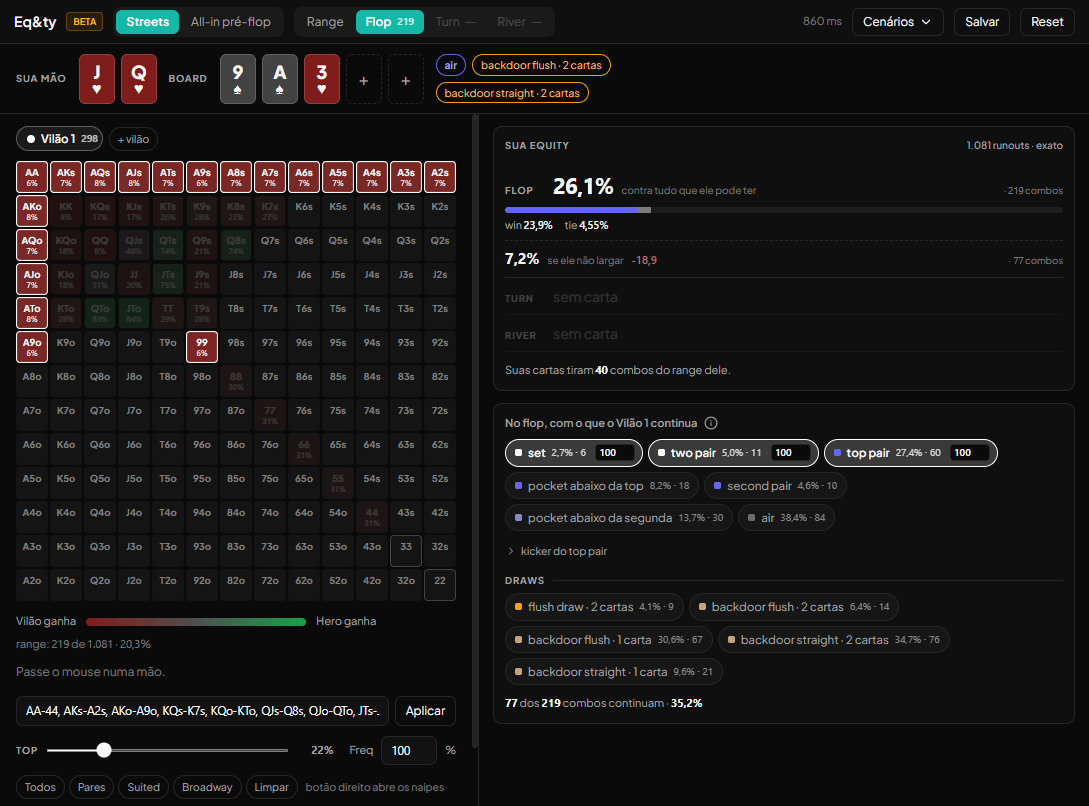
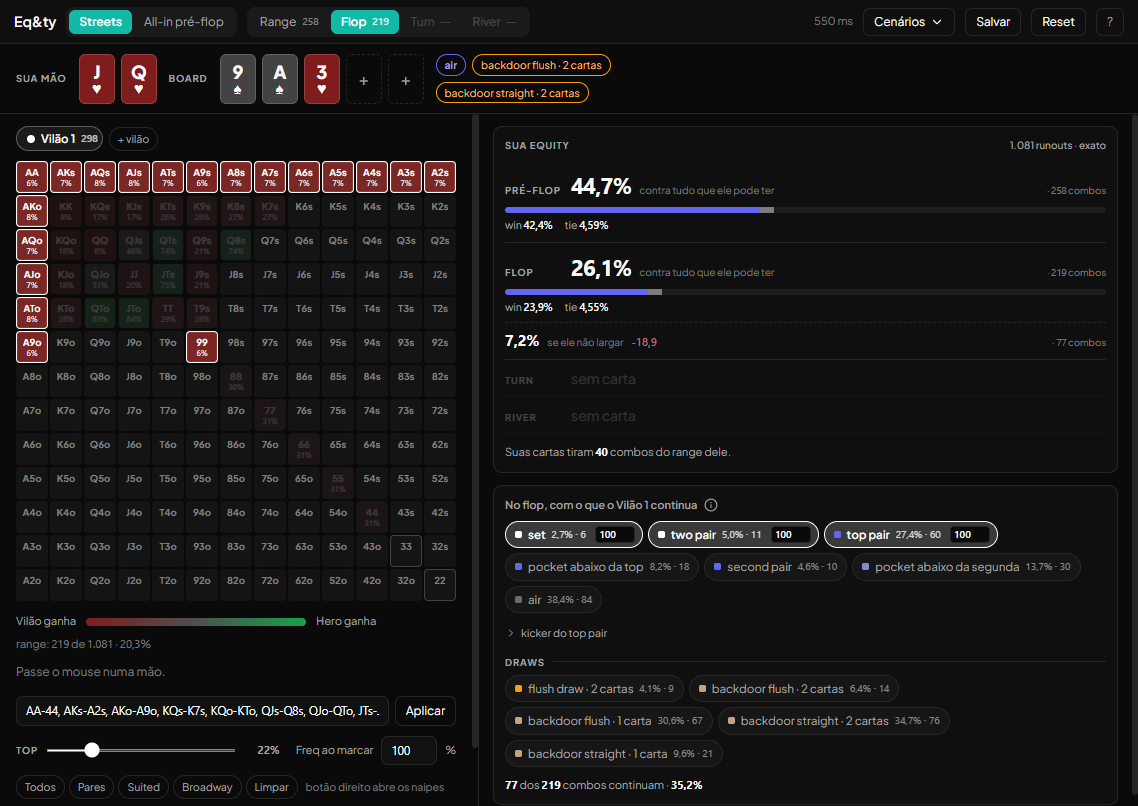
Atualiza manual Eqty (saiu do beta, textos e prints novos)

diff --git a/manual-eqty.html b/manual-eqty.html
@@ -36,8 +36,6 @@
     .page-label { font-size: 11px; font-weight: 600; letter-spacing: .18em; text-transform: uppercase; color: var(--teal); margin-bottom: 14px; }
     .page-title { font-size: clamp(30px, 5vw, 46px); font-weight: 300; letter-spacing: -.02em; line-height: 1.1; margin-bottom: 8px; }
     .page-title strong { font-weight: 600; }
-    .page-badge { display: inline-block; font-size: 10px; font-weight: 700; letter-spacing: .08em; text-transform: uppercase;
-      color: var(--teal); border: 1px solid rgba(60,188,188,.4); border-radius: 5px; padding: 2px 8px; vertical-align: middle; margin-left: 8px; }
 
     .lead { font-size: 18px; font-weight: 300; color: var(--muted); margin: 22px 0 8px; }
     .lead strong { color: var(--text); font-weight: 600; }
@@ -105,10 +103,10 @@
 
   <main>
     <p class="page-label">Documentação</p>
-    <h1 class="page-title">Eq&amp;ty<span class="page-badge">Beta</span></h1>
+    <h1 class="page-title">Eq&amp;ty</h1>
 
     <article>
-      <p class="lead"><strong>Streets</strong> roda a sua mão contra o range do vilão street a street, com o range dele encolhendo conforme você marca com o que ele segue. O outro modo é <strong>All-in pré-flop</strong>, até 6 jogadores.</p>
+      <p class="lead"><strong>Streets</strong> roda a sua mão contra o range do vilão street a street, com o range dele encolhendo conforme você marca com o que ele segue. A conta começa no pré-flop, antes de qualquer board. O outro modo é <strong>All-in pré-flop</strong>, até 6 jogadores.</p>
 
       <p>Monte a sua mão, pinte o range dele no grid ou cole a notação, escolha o board. O número sai sozinho, não tem botão de calcular.</p>
 
@@ -134,8 +132,10 @@
       <figure><img src="./assets/eqty/07-continuation-filter.png" alt="O filtro do flop" /><figcaption>O filtro do flop</figcaption></figure>
 
       <h2>Exato e estimado</h2>
-      <p>Heads-up com board o número é exato, sem margem: os 1.081 runouts entram todos na conta.</p>
-      <p>Multiway e all-in pré-flop são amostrados. O multiway mostra a margem no painel; no all-in ela é de uns 0,3 ponto. <strong>Recalcular</strong> sorteia de novo e o valor anda meio ponto.</p>
+      <p>O painel diz qual dos dois você está lendo, e isso muda com a street escolhida.</p>
+      <pre><code>1.081 runouts · exato    heads-up com board: todos os runouts na conta
+120.000 mãos             pré-flop, multiway e all-in: amostragem</code></pre>
+      <p>Heads-up com board o número é fechado, sem margem. Pré-flop, multiway e all-in pré-flop são amostrados: o multiway mostra a margem no painel, e no all-in ela é de uns 0,3 ponto. <strong>Recalcular</strong> sorteia de novo e o valor anda meio ponto.</p>
       <p>Não decida nada por 0,2 ou 0,3 ponto entre dois números estimados.</p>
 
       <figure><img src="./assets/eqty/11-allin-multiway.png" alt="All-in pré-flop com três jogadores" /><figcaption>All-in pré-flop, três jogadores</figcaption></figure>
@@ -156,7 +156,7 @@ B          board
 Ctrl+Z     desfaz no range
 Del        limpa o range do vilão ativo</code></pre>
 
-      <div class="note">Em beta. Número estranho, confira range e filtro. Se persistir, use o <strong>Feedback</strong> do Loot.</div>
+      <div class="note">Número estranho: confira o range e os filtros. Se persistir, use o <strong>Feedback</strong> do Loot.</div>
     </article>
 
     <!-- MANUAL COMPLETO (opcional) -->
@@ -171,12 +171,12 @@ Del        limpa o range do vilão ativo</code></pre>
       </summary>
       <div class="full-body">
 
-        <p class="lead" style="font-size:16px;margin-top:16px">O Eq&amp;ty calcula quanto a sua mão ganha contra o que o vilão pode ter, street a street. Ele aparece no menu do Loot para jogador e para coach. O manual segue a ordem de uma análise; as mãos, os ranges e os cenários são exemplos.</p>
+        <p class="lead" style="font-size:16px;margin-top:16px">O Eq&amp;ty calcula quanto a sua mão ganha contra o que o vilão pode ter, street a street. Ele aparece no menu do Loot para jogador e para coach. O manual segue a ordem de uma análise; as mãos, os ranges e os cenários são exemplos. O <strong>?</strong> logo abaixo do <strong>Reset</strong>, no canto de cima da tela, abre este manual numa aba nova, sem mexer no que está na tela.</p>
 
         <h2>1. O que o Eq&amp;ty responde, e o que ele não responde</h2>
         <h3>Ele responde</h3>
         <ul>
-          <li><strong>Streets.</strong> Quanto a sua mão ganha contra o range do vilão no flop, no turn e no river. E quanto ganha contra a parte do range que continua na mão, depois que você diz com o que ele segue.</li>
+          <li><strong>Streets.</strong> Quanto a sua mão ganha contra o range do vilão antes do flop, no flop, no turn e no river. E quanto ganha contra a parte do range que continua na mão, depois que você diz com o que ele segue.</li>
           <li><strong>All-in pré-flop.</strong> Num all-in antes do flop, com 2 a 6 jogadores, a fatia do pote de cada range.</li>
         </ul>
         <h3>Ele não responde</h3>
@@ -189,13 +189,14 @@ Del        limpa o range do vilão ativo</code></pre>
         </ul>
 
         <h2>2. Sua primeira análise, em 4 passos</h2>
-        <p>A tela abre no modo <strong>Streets</strong>, vazia. Nada é calculado até você informar a sua mão, o flop e o range de pelo menos um vilão.</p>
+        <p>A tela abre no modo <strong>Streets</strong>, vazia. Nada é calculado até você informar a sua mão e o range de pelo menos um vilão. Com os dois, sai a equity pré-flop; com o flop, saem as streets.</p>
         <h3>Passo 1: suas cartas</h3>
         <p>Clique num dos dois espaços de <strong>Sua mão</strong>, ou aperte <strong>H</strong>. Escolha as duas cartas e clique em <strong>Usar</strong>.</p>
         <h3>Passo 2: o range do vilão</h3>
         <p>Com a barra do topo em <strong>Range</strong>, monte o range dele no grid. Clique numa mão para marcar; arraste para marcar várias. Se você já tem o range escrito, cole no campo <strong>Cole o range</strong> e clique em <strong>Aplicar</strong>.</p>
         <p>O range usado neste manual é <code>AA-44, AKs-A2s, KQs-K7s, QJs-Q8s, JTs-J9s, T9s, AKo-A9o, KQo-KTo, QJo-QTo, JTo</code>.</p>
         <p>Embaixo do grid, a linha <strong>range</strong> diz quantos combos ele tem e que fatia isso é de todas as mãos possíveis: no exemplo, <strong>258 de 1.225 · 21,1%</strong>. As mãos que usam as suas cartas já saem da conta, e o painel da direita avisa quanto: <strong>Suas cartas tiram 40 combos do range dele</strong>.</p>
+        <p>Com a sua mão e o range, o painel <strong>Sua equity</strong> já mostra a linha <strong>PRÉ-FLOP</strong>: <strong>44,7% contra tudo que ele pode ter</strong>, a sua equity antes do flop. O topo do painel diz <strong>120.000 mãos</strong> porque o pré-flop é estimado (seção 5), e o número é o mesmo do <strong>All-in pré-flop</strong> para a mesma mão e o mesmo range. O degrau <strong>Range</strong> da barra do topo mostra os mesmos 258 combos: <strong>Range 258</strong>.</p>
         <h3>Passo 3: o flop</h3>
         <p>Clique num espaço do <strong>Board</strong>, ou aperte <strong>B</strong>, e escolha as três cartas do flop de uma vez. Como o range já está montado, a barra vai sozinha para <strong>Flop</strong> quando você clica em <strong>Usar</strong>.</p>
         <h3>Passo 4: o número</h3>
@@ -205,6 +206,7 @@ Del        limpa o range do vilão ativo</code></pre>
           <li><strong>219 combos</strong> é o tamanho desse range no flop, já sem as mãos que usam as suas cartas ou as do board.</li>
           <li><strong>win</strong> é a parte em que você ganha sozinho; <strong>tie</strong> é a parte em que empata.</li>
           <li><strong>1.081 runouts · exato</strong> diz que o número é exato: todas as combinações de turn e river entraram na conta.</li>
+          <li><strong>PRÉ-FLOP</strong> continua acima de <strong>FLOP</strong>, com o número de antes do flop.</li>
         </ul>
         <p>O grid ganha cor. Cada mão mostra a sua equity contra ela, do vermelho (<strong>Vilão ganha</strong>) ao verde (<strong>Hero ganha</strong>). Passe o mouse numa mão para ver, embaixo do grid, a sua equity contra ela e o que ela é naquele board.</p>
 
@@ -232,7 +234,7 @@ Del        limpa o range do vilão ativo</code></pre>
           <li><strong>Notação:</strong> cole no campo e clique em <strong>Aplicar</strong>. Aceita <code>77+</code>, <code>A2s+</code>, <code>KQo</code>, intervalos como <code>AKs-A2s</code>, combos exatos como <code>AcQc</code> e frequência como <code>AKs:50</code>. Se algum pedaço não for lido, a tela diz qual e não aplica nada.</li>
           <li><strong>Top:</strong> a barra marca as mãos mais fortes pré-flop, até a porcentagem que você escolher.</li>
           <li><strong>Atalhos de preenchimento:</strong> Todos, Pares, Suited, Broadway e Limpar.</li>
-          <li><strong>Freq:</strong> é a frequência com que o vilão tem a mão. Freq 50% quer dizer que ele tem aquela mão metade das vezes. O número em Freq, ao lado da barra Top, vale para as mãos que você marcar dali em diante. A célula com Freq abaixo de 100 ganha um ponto âmbar.</li>
+          <li><strong>Freq:</strong> é a frequência com que o vilão tem a mão. Freq 50% quer dizer que ele tem aquela mão metade das vezes. O número em <strong>Freq ao marcar</strong>, ao lado da barra Top, vale para as mãos que você marcar dali em diante. A célula com Freq abaixo de 100 ganha um ponto âmbar.</li>
           <li><strong>Um combo só:</strong> clique com o botão direito numa mão para abrir os naipes. Cada botão é um combo. O campo Freq dessa janela muda na hora a frequência dos combos acesos daquela mão.</li>
           <li><strong>Desfazer:</strong> Ctrl+Z. Del limpa o range do vilão ativo.</li>
           <li><strong>Mais de um vilão:</strong> + vilão acrescenta outro, até 3. Cada vilão tem o seu range e os seus filtros.</li>
@@ -269,10 +271,12 @@ Del        limpa o range do vilão ativo</code></pre>
         <p>Quando o dinheiro entra antes do flop: shove e call de stack curto, com 2 a 6 jogadores. Aqui não existe board nem filtro. É range contra range.</p>
         <h3>Como usar</h3>
         <p>Clique em <strong>All-in pré-flop</strong>, no topo da tela; para voltar, clique em <strong>Streets</strong>. Em cada linha, digite o range e aperte Enter. A primeira linha é o <strong>Hero</strong>, e ela aceita uma mão exata, como <code>AcQc</code>, ou um range. <strong>+ jogador</strong> acrescenta jogadores, até 6. O número de cada um aparece sozinho, e as fatias da mesa somam 100%.</p>
-        <p>Para marcar um range no grid, clique em <strong>grid</strong> na linha do jogador. A janela tem o mesmo grid, a barra Top, a Freq e os atalhos de preenchimento da seção 4.</p>
+        <p>Para marcar um range no grid, clique em <strong>grid</strong> na linha do jogador. A janela tem o mesmo grid, a barra Top, a <strong>Freq ao marcar</strong> e os atalhos de preenchimento da seção 4.</p>
         <h3>Por que a margem existe</h3>
         <p>Sem board, contar todas as combinações de cinco cartas para cada par de mãos levaria tempo demais. O Eq&amp;ty sorteia mãos: 120.000 com até 3 jogadores e 80.000 com 4 a 6. O quadro mostra quantas mãos entraram na conta.</p>
-        <p>Por isso o número tem margem, mesmo sem aparecer na tela. Nas nossas medições, cada fatia fica a até cerca de 0,3 ponto do valor exato, em 95 de cada 100 contas. <strong>Recalcular</strong> sorteia de novo, e o número pode andar uns 0,5 ponto entre uma conta e outra. Na prática: não decida por uma diferença de 0,2 ou 0,3 ponto.</p>
+        <p>Por isso o número tem margem, mesmo sem aparecer na tela. Nas nossas medições, cada fatia fica a até cerca de 0,3 ponto do valor exato, em 95 de cada 100 contas. A mesma mesa dá sempre o mesmo número na primeira conta. <strong>Recalcular</strong> sorteia de novo, e o número pode andar uns 0,5 ponto entre uma conta e outra: AcQc contra o range largo de exemplo ficou entre 60,9% e 61,3% na primeira conta e nos 9 Recalcular seguintes.</p>
+        <p>A linha <strong>PRÉ-FLOP</strong> do Streets faz a mesma conta: para a mesma mão e os mesmos ranges, os dois modos dão o mesmo número na primeira conta. O Streets não tem Recalcular; depois de um Recalcular no All-in, os dois podem ficar a uns 0,5 ponto um do outro.</p>
+        <p>Na prática: não decida por uma diferença de 0,2 ou 0,3 ponto entre dois números do all-in.</p>
 
         <h2>6. Salvar, reabrir e Reset</h2>
         <h3>Salvar</h3>
@@ -305,10 +309,10 @@ Del        limpa o range do vilão ativo</code></pre>
           <li><strong>As categorias seguem regras fixas.</strong> Duas mãos da mesma categoria podem ter equities bem diferentes. Confira a mão no grid quando a diferença importar.</li>
           <li><strong>Freq é frequência.</strong> Freq 50% diz com que frequência o vilão tem a mão. Ela não mede a importância da mão.</li>
           <li><strong>Com 2 ou 3 vilões, o número é estimado.</strong> O painel mostra quantas mãos foram sorteadas e a margem, troca tie por split e mostra a sua equity contra cada vilão sozinho. O grid deixa de mostrar a equity mão a mão. O máximo é 3 vilões.</li>
-          <li><strong>O all-in pré-flop também é estimado,</strong> com margem de cerca de 0,3 ponto (seção 5).</li>
+          <li><strong>O pré-flop também é estimado,</strong> no All-in e na linha PRÉ-FLOP do Streets, com margem de cerca de 0,3 ponto (seção 5).</li>
           <li><strong>Só as suas cartas e o board saem do baralho.</strong> No Streets, não dá para tirar as cartas de quem largou a mão.</li>
           <li><strong>Nada de torneio nem de mesa entra na conta.</strong> Não entram ICM, tamanho de stack, side pot, posição ou rake.</li>
-          <li><strong>O Eq&amp;ty está em beta.</strong> Se um número parecer errado, confira o range e os filtros. Se continuar estranho, avise pelo botão <strong>Feedback</strong> do Loot.</li>
+          <li><strong>Se um número parecer errado,</strong> confira o range e os filtros. Se continuar estranho, avise pelo botão <strong>Feedback</strong> do Loot.</li>
         </ul>
 
       </div>
@@ -317,7 +321,7 @@ Del        limpa o range do vilão ativo</code></pre>
 
   <footer>
     <img src="./assets/loot_green.png" alt="Loot" />
-    <span>© 2026 Loot Analytics · Eq&amp;ty em beta</span>
+    <span>© 2026 Loot Analytics</span>
   </footer>
 
 </body>
